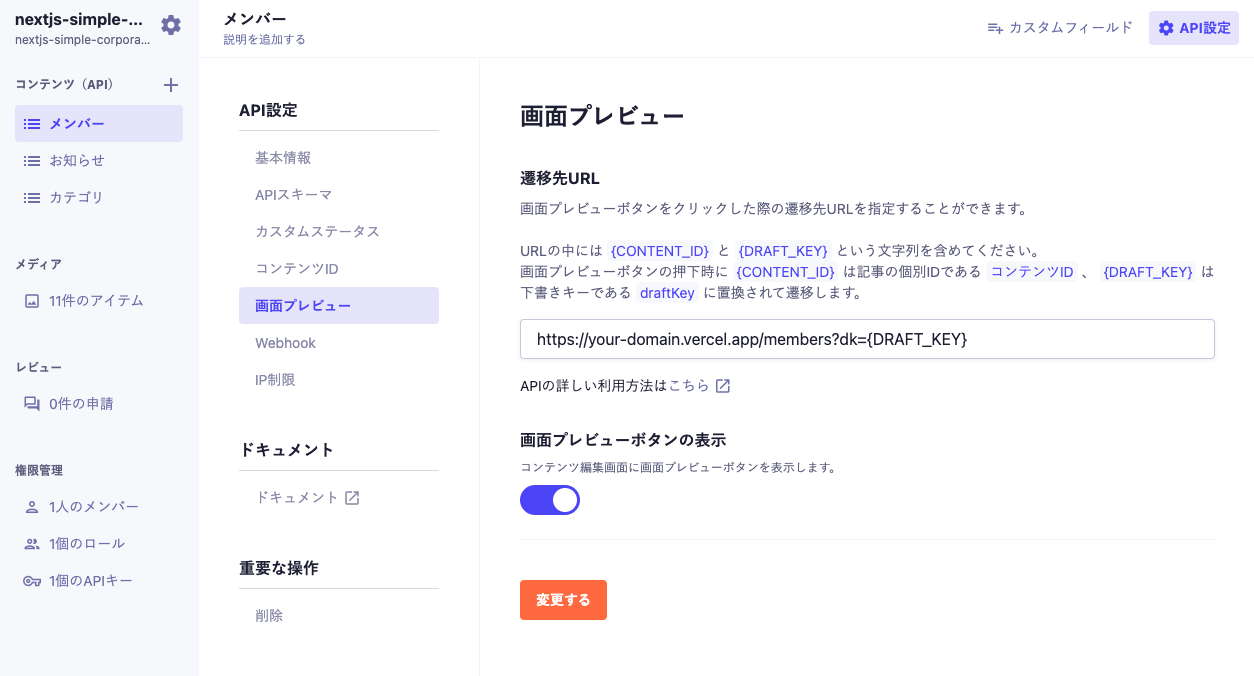
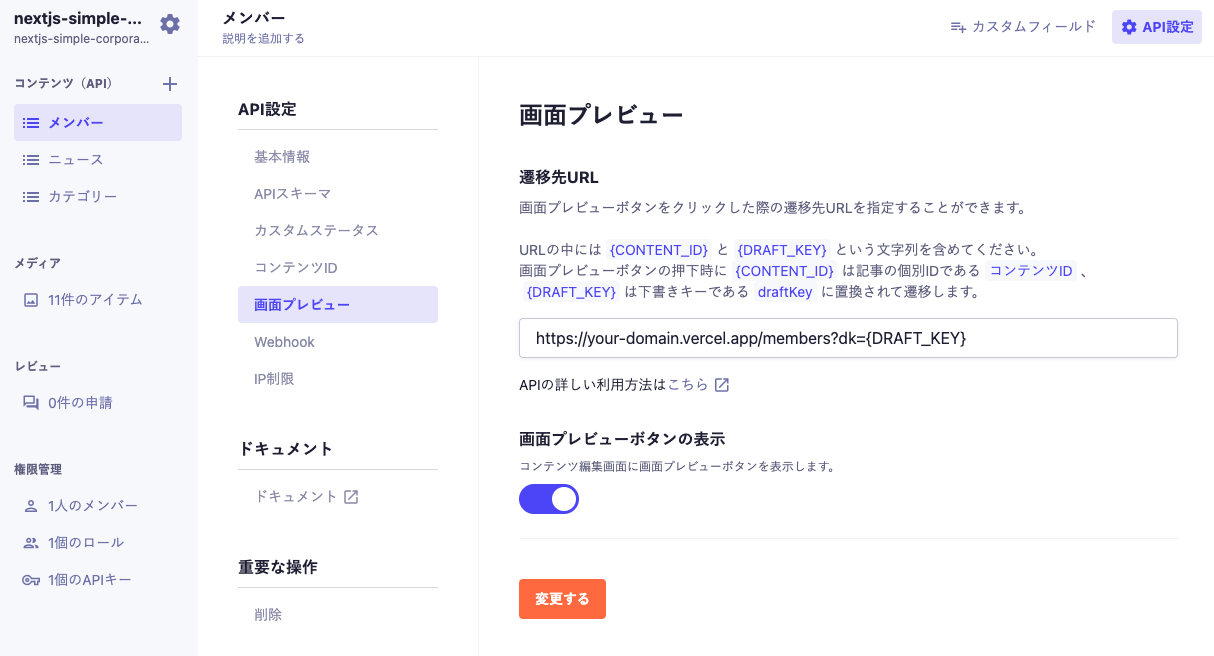
[update] お知らせをニュースに変更

diff --git a/README.md b/README.md
@@ -108,9 +108,9 @@ npm run dev
 
 下書き状態のコンテンツをプレビューするために、microCMS 管理画面にて画面プレビューの設定が必要です。
 
-### お知らせ
+### ニュース
 
-お知らせ API の「API 設定 > 画面プレビュー」に下記のように設定してください。
+ニュース API の「API 設定 > 画面プレビュー」に下記のように設定してください。
 ※`your-domain`部分はデプロイ先のドメインに置き換えてください。
 
 ![](public/news-preview.png)
